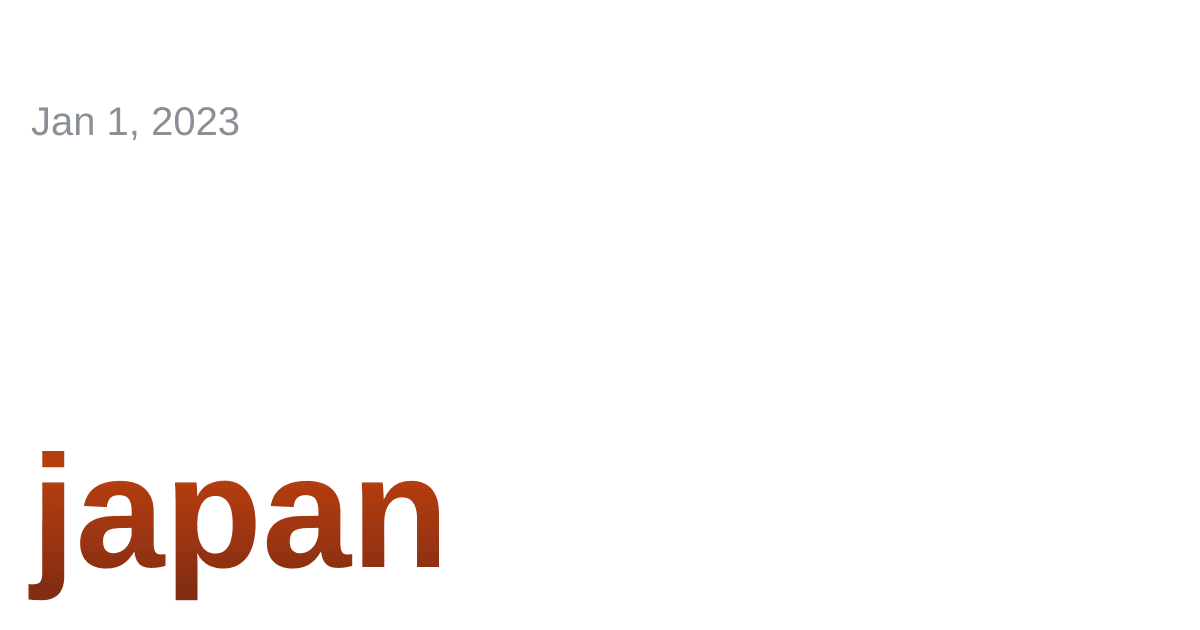
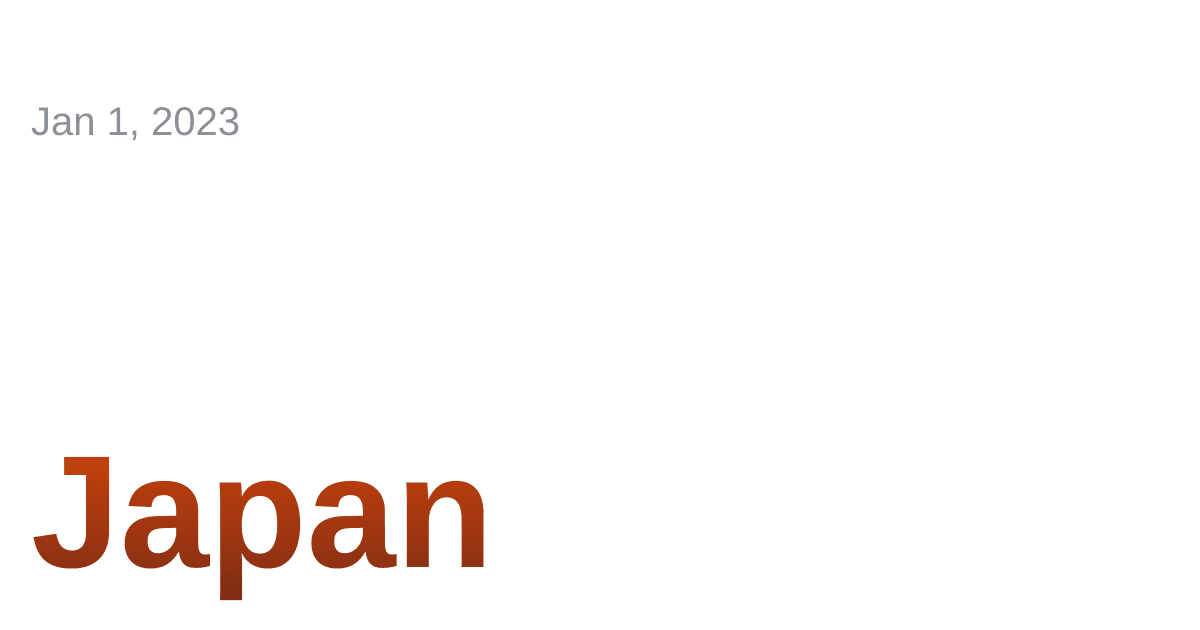
Fix add-word workflow and social image case preservation
Critical fixes:
- Fix social images always showing lowercase (Japan → japan)
- Remove .toLowerCase() from createWordSvg() in tools/utils.ts
- Fix generateSingleImage() to use wordData.word instead of input

Workflow improvements:
- Remove unnecessary prepare-manual job (simplify to single job)
- Fix FLAGS handling using bash array (avoid quoting issues)
- Add input sanitization (trim whitespace from word/date)
- Validate word is not empty after trimming
- Improve preserve_case description with better examples
- Use inputs.* directly instead of job outputs
- Better error messages with ::error:: format

Testing:
- All 400 tests passing
- Lint checks passing (0 warnings, 0 errors)
- TypeScript checks passing (0 errors, 0 warnings, 0 hints)

The social image bug was causing proper nouns like "Japan" to
display correctly on web but show "japan" in social share images.
This is now fixed.

Changed region(s): [[0.0, 0.6937, 0.4008, 0.9651]]

diff --git a/tools/generate-images.ts b/tools/generate-images.ts
@@ -48,8 +48,8 @@ async function generateSingleImage(word: string): Promise<boolean> {
       return false;
     }
 
-    await generateShareImage(word, wordData.date);
-    console.log('Generated image for word', { word, date: wordData.date });
+    await generateShareImage(wordData.word, wordData.date);
+    console.log('Generated image for word', { word: wordData.word, date: wordData.date });
     return true;
   } catch (error) {
     console.error('Failed to generate image for word', { word, error: (error as Error).message });

diff --git a/tools/utils.ts b/tools/utils.ts
@@ -226,7 +226,7 @@ export function createWordSvg(word: string, date: string): string {
   const formattedDate = formatDate(date);
 
   // Get path data for all text elements
-  const mainWord = getTextPath(word.toLowerCase(), FONT_SIZE, { isExtraBold: true, maxWidth: MAX_WIDTH });
+  const mainWord = getTextPath(word, FONT_SIZE, { isExtraBold: true, maxWidth: MAX_WIDTH });
   const titleText = getTextPath(process.env.SITE_TITLE || '', TITLE_SIZE);
   const dateText = getTextPath(formattedDate, DATE_SIZE);
 
